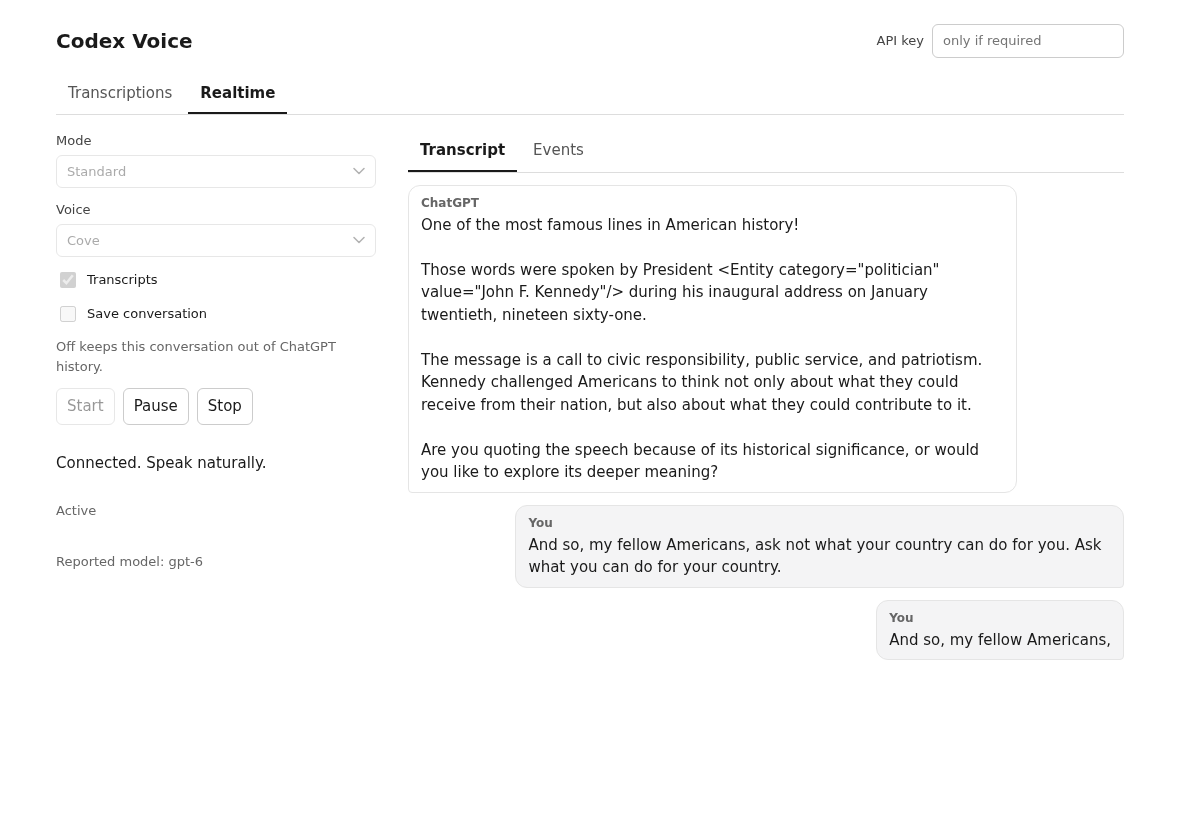
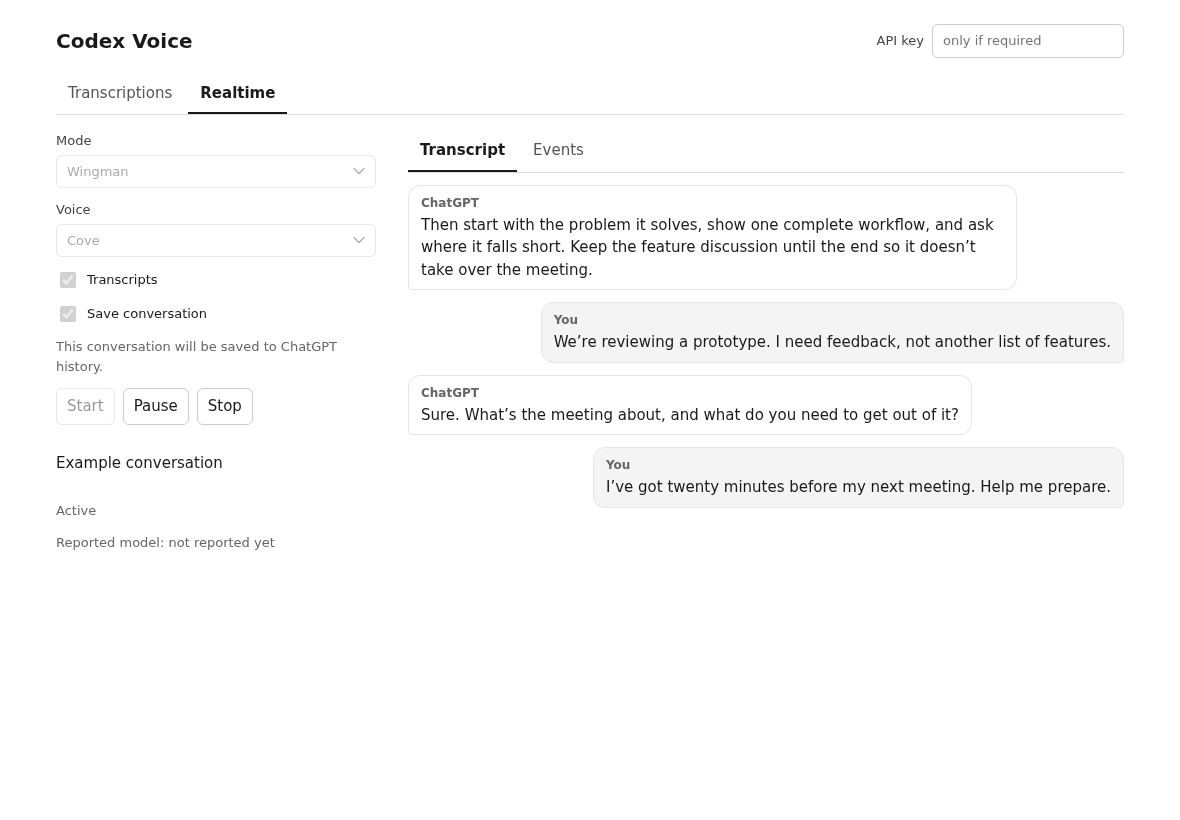
docs: illustrate Wingman conversation with accurate provenance

diff --git a/ROADMAP.md b/ROADMAP.md
@@ -17,12 +17,14 @@ Release acceptance and deployment remain separate.
   fixture against the existing and candidate servers. This observation covers
   transcription only, not native GPT-Live or Discord voice.
 - [x] Record the owner's working-demo acceptance and two real upstream captures
-  using public sample audio. The realtime capture uses Standard with saving off.
+  using public sample audio. The historical realtime capture uses Standard with
+  saving off. The README now pairs the real transcription with an illustrative
+  English Wingman conversation rendered offline.
 - [ ] Complete and record the release acceptance checklist on the revision to be
   published. Cover file and microphone transcription, keyed proxy and secure
   origin, explicit saving, real WebRTC audio and events, failed startup,
   Pause/Resume, and Stop cleanup. The owner's working-demo acceptance and the
-  two captures do not by themselves record every check in this list.
+  historical captures do not by themselves record every check in this list.
 - [ ] Confirm manual acceptance before tags, releases, or image publication.
   Docker CI builds on pull requests and main pushes without publishing. Version
   tags and manual Docker workflow runs can publish images. Release CI publishes

diff --git a/README.md b/README.md
@@ -98,11 +98,11 @@ show the newest messages first. **Events** shows timestamped connection and
 service events with formatted JSON details. **Pause** mutes the microphone and
 playback locally. **Stop** closes the connection and releases the microphone.
 
-![Realtime Standard session with saving off](docs/screenshots/realtime.png)
+![Wingman UI showing an illustrative English example conversation](docs/screenshots/realtime.png)
 
-Real WebRTC session using the same public sample audio in Standard mode, with
-saving off. The reported model label is upstream metadata, not a guarantee of
-the served backend. Literal upstream Entity markup is displayed as text.
+**Example conversation.** Illustrative English dialogue rendered offline in the
+actual Wingman UI with newest-first bubbles. No upstream calls were made and no
+conversation was saved. This image does not verify API behavior.
 
 The server's `POST /v1/realtime/sessions` accepts a JSON SDP offer and returns an
 answer. WebRTC carries audio and events after negotiation. A curl request alone

diff --git a/docs/voice.md b/docs/voice.md
@@ -149,6 +149,8 @@ node --test --test-concurrency=1 tests/*.test.mjs
 Rust mock upstreams and Node browser fixtures provide offline verification.
 They do not prove live microphone permission, audio playback, transcript delivery,
 model identity, pricing, deployment, or completed manual acceptance.
-The README screenshots record real file transcription and a Standard WebRTC
-session using public sample audio with saving off. Those captures establish only
-those observations, not a full acceptance run for every mode or browser.
+The README shows a real file transcription and an illustrative English Wingman
+conversation rendered offline in the actual UI. The illustration made no
+upstream calls and does not verify API behavior. A prior Standard WebRTC capture
+used public sample audio with saving off. That observation does not establish
+full acceptance for every mode or browser.
